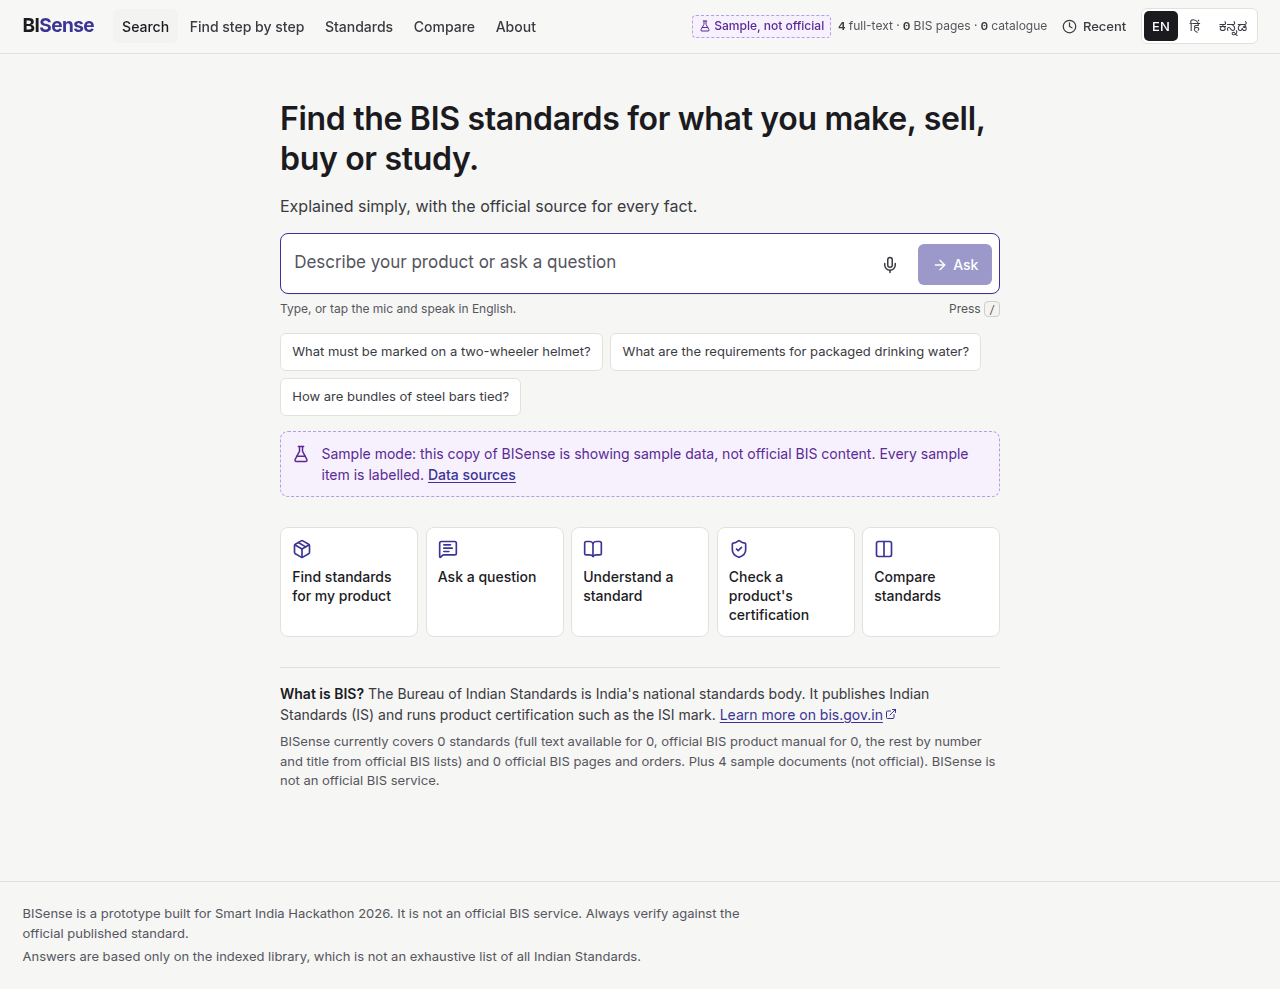
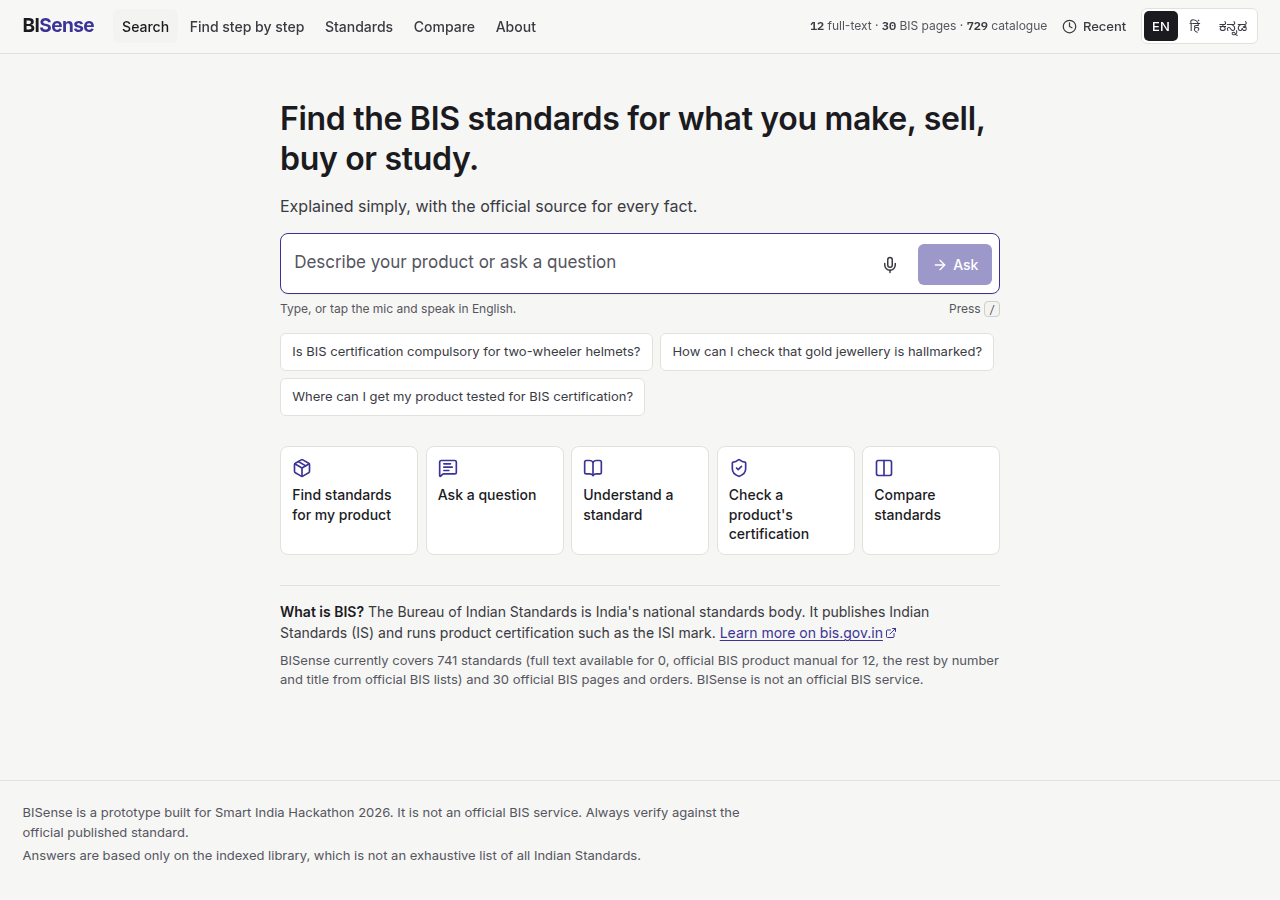
Official data verified end to end: readable no-key answers (list rows first, one about-passage per standard, no boilerplate), clean category names, drop two empty BIS pages; old STT_PROVIDER values mean auto; launcher reruns setup when dependencies change; e2e data-agnostic; eval and screenshots on 
Claude-Session: https://claude.ai/code/session_01GR7TXtNNXnoeu5baGrbs75

diff --git a/web/e2e/app.spec.ts b/web/e2e/app.spec.ts
@@ -84,15 +84,16 @@ test("explorer tabs, requirements CSV and checklist", async ({ page }) => {
 });
 
 test("catalogue-only entry shows official compulsory-certification evidence", async ({ page, request }) => {
-  test.skip((await request.get("/api/standards/is-4151-2015")).status() === 404, "official data not loaded (npm run fetch-public && npm run ingest)");
-  await page.goto("/standards/is-4151-2015");
+  // IS 7466 (rubber gaskets for pressure cookers) is known only from the official compulsory-certification list
+  test.skip((await request.get("/api/standards/is-7466-1994")).status() === 404, "official data not loaded (npm run fetch-public && npm run ingest)");
+  await page.goto("/standards/is-7466-1994");
   await expect(page.getByText("Metadata only. Full text not indexed.").first()).toBeVisible();
   await expect(page.getByText(/Listed as under compulsory BIS certification/)).toBeVisible();
 });
 
 test("library filters and compare with numeric alignment", async ({ page }) => {
   await page.goto("/standards?kind=standard");
-  await expect(page.getByText("4 results")).toBeVisible();
+  await expect(page.getByText(/^\d+ results?$/).first()).toBeVisible();
   await expectNoSeriousA11yIssues(page);
   await page.goto("/compare?a=demo-101-2026&b=demo-102-2026");
   await expect(page.getByRole("heading", { name: "Numeric limits (verbatim)" })).toBeVisible({ timeout: 60_000 });
@@ -113,10 +114,13 @@ test("guided path: goal -> category from the data -> real standards -> open one"
   await page.goto("/");
   await page.getByRole("link", { name: "Find standards for my product" }).click();
   await expect(page.getByRole("heading", { name: "Which product?" })).toBeVisible();
-  await page.getByRole("button", { name: /Automotive and road safety/ }).click();
-  await expect(page.getByText(/Automotive and road safety: 1 in the library/)).toBeVisible();
+  // categories come from whatever data is loaded (official lists, or the sample pack)
+  const first = page.getByRole("group", { name: "Categories in the library" }).getByRole("button").first();
+  const name = ((await first.textContent()) ?? "").replace(/\s*\(\d+\)\s*$/, "").trim();
+  await first.click();
+  await expect(page.getByText(`${name}: `, { exact: false }).first()).toBeVisible();
   await page.getByRole("link", { name: "Open" }).first().click();
-  await expect(page).toHaveURL(/\/standards\/demo-201-2026/);
+  await expect(page).toHaveURL(/\/standards\/[a-z0-9-]+/);
   await expectNoSeriousA11yIssues(page);
 });
 

diff --git a/web/src/routes/Guide.tsx b/web/src/routes/Guide.tsx
@@ -168,7 +168,7 @@ export default function Guide() {
                     type="button"
                     aria-pressed={category === c.category}
                     onClick={() => setCategory(c.category)}
-                    className={`min-h-10 rounded-md border px-3 text-[13px] ${category === c.category ? "border-accent bg-accent-soft text-accent-strong" : "border-line bg-surface text-ink-2 hover:border-accent"}`}
+                    className={`min-h-10 rounded-md border px-3 py-1 text-left text-[13px] ${category === c.category ? "border-accent bg-accent-soft text-accent-strong" : "border-line bg-surface text-ink-2 hover:border-accent"}`}
                   >
                     {c.category} <span className="text-ink-3">({c.count})</span>
                   </button>

diff --git a/server/bisense/answer/extractive.py b/server/bisense/answer/extractive.py
@@ -14,10 +14,32 @@ from bisense.models import Point
 from bisense.retrieval.search import Candidate
 
 
+def _table_rows_text(text: str, max_chars: int) -> str:
+    """Readable rows from a Markdown table: "IS 17790:2022 — Insulated Flask for Domestic Use — … Order, 2023".
+    Header and separator rows are dropped, as is a leading serial-number cell."""
+    rows = []
+    for line in text.splitlines():
+        cells = [c.strip() for c in line.strip().strip("|").split("|") if c.strip()]
+        if "|" not in line or not cells or all(set(c) <= set("-: ") for c in cells) or cells[0].lower().startswith(("sl no", "s. no", "sl. no")):
+            continue
+        if re.fullmatch(r"\d+\.?", cells[0]):
+            cells = cells[1:]
+        if cells:
+            rows.append(" — ".join(" ".join(c.split()) for c in cells))
+    out = "; ".join(rows) or text
+    return out if len(out) <= max_chars else out[:max_chars].rsplit(" ", 1)[0].rstrip(" …") + " …"
+
+
+def _is_table(text: str) -> bool:
+    """Rows are reformatted for reading, so they are not the source's exact wording (no quote)."""
+    return "|---" in text or "| ---" in text
+
+
 def first_sentences(text: str, max_chars: int = 320) -> str:
+    if _is_table(text):
+        return _table_rows_text(text, max_chars)
     text = " ".join(text.split())
-    if text.startswith("|") or "| ---" in text or "|---" in text:
-        # tables: show the caption/first rows instead of a sentence
+    if text.startswith("|"):
         return text[:max_chars]
     parts = re.split(r"(?<=[.;])\s+(?=[A-Z(•])", text)
     out = ""
@@ -33,31 +55,83 @@ RERANK_MARGIN = 5.0
 VECTOR_MARGIN = 0.07
 
 
-def strong_context(context: list[Candidate]) -> list[Candidate]:
+def strong_context(context: list[Candidate], margin: float = RERANK_MARGIN, keep_lists: bool = False) -> list[Candidate]:
     """Drop passages much weaker than the best one, so an extractive answer about helmets does not also
-    list a steel-bar clause that only shares the word "marked". Keeps at least the best passage."""
+    list a steel-bar clause that only shares the word "mark". Keeps at least the best passage.
+    keep_lists: official product-list rows always stay (for "which standard applies" they are the evidence,
+    and the cross-encoder scores table rows low)."""
     if not context:
         return []
     reranked = [c.rerank_score for c in context if c.rerank_score is not None]
     if reranked:
         top = max(reranked)
-        return [c for c in context if c.rerank_score is None or c.rerank_score >= top - RERANK_MARGIN] or context[:1]
+        keep = [c for c in context if c.rerank_score is None or c.rerank_score >= top - margin or (keep_lists and c.clause_kind == "list")]
+        return keep or context[:1]
     vecs = [c.vector_score for c in context if c.vector_score is not None]
     if not vecs:
         return context
     best = max(vecs)
     keep = [
-        c for c in context if (c.vector_score is not None and c.vector_score >= best - VECTOR_MARGIN) or (c.lexical_rank is not None and c.lexical_rank <= 2)
+        c
+        for c in context
+        if (c.vector_score is not None and c.vector_score >= best - VECTOR_MARGIN)
+        or (c.lexical_rank is not None and c.lexical_rank <= 2)
+        or (keep_lists and c.clause_kind == "list")
     ]
     return keep or context[:1]
 
 
-def extractive_points(context: list[Candidate], limit: int = 6) -> list[Point]:
+def _location(c: Candidate) -> str:
+    """ "4.2 Mass", "§3.1", or just the heading for front matter (never "Front Front matter")."""
+    if c.clause_number.startswith("Front"):
+        return c.clause_heading if c.clause_heading and c.clause_heading != "Front matter" else ""
+    return f"{c.clause_number} {c.clause_heading}".strip()
+
+
+DISCOVER_MARGIN = 3.0
+
+
+# Preference when showing one passage per standard: what the standard is about first; marking,
+# packing, sampling and annex text (often boilerplate shared by every product manual) last.
+_ABOUT_RANK = {"scope": 0, "front": 1, "foreword": 2, "terminology": 3, "requirement": 4, "test_method": 5, "table": 6}
+_LAST = {"marking", "packing", "sampling", "annex"}
+
+
+def _words(text: str) -> set[str]:
+    from bisense.retrieval.query import STOPWORDS
+
+    return {w[:4] for w in re.findall(r"[a-z0-9]+", text.lower()) if len(w) > 2 and w not in STOPWORDS}
+
+
+def one_per_standard(context: list[Candidate], limit: int = 6, query: str = "") -> list[Candidate]:
+    """For "which standards apply" questions: official list rows first (up to 3), then one retrieved
+    passage per standard, preferring its scope/title passage over a marking clause that happened to match.
+    Only retrieved passages are used, so every point keeps a citation in the evidence panel."""
+    rows = [c for c in context if c.clause_kind == "list"][:3]
+    by_std: dict[int, list[Candidate]] = {}
+    for c in context:
+        if c.clause_kind != "list":
+            by_std.setdefault(c.standard_id, []).append(c)
+    out = [min(cands, key=lambda c: (c.clause_kind in _LAST, _ABOUT_RANK.get(c.clause_kind, 7))) for cands in by_std.values()]
+    # A standard whose title shares no word with the question only matched boilerplate (e.g. the lab
+    # annex every product manual repeats): leave it out.
+    q = _words(query)
+    if q:
+        out = [c for c in out if q & _words(f"{c.title} {c.document_title or ''}")] or out[:1]
+    return (rows + out)[:limit]
+
+
+def extractive_points(context: list[Candidate], limit: int = 6, discover: bool = False, query: str = "") -> list[Point]:
     points: list[Point] = []
-    for c in strong_context(context)[:limit]:
+    if discover:
+        chosen = one_per_standard(strong_context(context, DISCOVER_MARGIN, keep_lists=True), query=query)
+    else:
+        chosen = strong_context(context)[:limit]
+    for c in chosen:
         excerpt = first_sentences(c.text)
         if not excerpt:
             continue
-        label = f"{c.label()} — {c.clause_number} {c.clause_heading}".strip()
-        points.append(Point(kind="source_fact", text=f"{label}: {excerpt}", citations=[c.citation_id or ""], quote=excerpt))
+        loc = _location(c)
+        label = f"{c.label()} — {loc}" if loc else c.label()
+        points.append(Point(kind="source_fact", text=f"{label}: {excerpt}", citations=[c.citation_id or ""], quote=None if _is_table(c.text) else excerpt))
     return points

diff --git a/server/bisense/ingest/catalogue.py b/server/bisense/ingest/catalogue.py
@@ -30,6 +30,19 @@ from bisense.ingest.types import ClauseDraft, ParsedDoc
 PARSER_VERSION = "catalogue-1.1"
 
 
+def short_category(text: str, limit: int = 80) -> str:
+    """A readable category name from a list heading. Some headings on the official page are a whole
+    history of Quality Control Orders in one cell; keep the first line, before "(Quality Control) Order",
+    without a leading "1. List of", cut at a word boundary."""
+    first = next((line.strip() for line in text.splitlines() if line.strip()), "")
+    first = re.sub(r"^\d+\.\s*", "", first)
+    first = re.sub(r"^List of\s+", "", first, flags=re.I)
+    first = re.split(r"\s*\(Quality Control\)", first, maxsplit=1)[0].strip()
+    if len(first) > limit:
+        first = first[:limit].rsplit(" ", 1)[0].rstrip(",;:-") + "…"
+    return first
+
+
 def _cell_text(td: Tag) -> str:
     for br in td.find_all("br"):
         br.replace_with(" ")
@@ -105,7 +118,7 @@ def parse_catalogue_document(path: Path) -> ParsedDoc:
         prev = table.find_previous(["h1", "h2", "h3", "h4", "p", "strong"])
         table_heading = normalize_text(prev.get_text(" ")) if prev else ""
 
-        category = table_heading if c_title is not None else ""
+        category = short_category(table_heading) if c_title is not None else ""
         group_rows: list[list[str]] = []
         pending_meta: list[dict] = []
         for row in grid[1:]:
@@ -114,7 +127,7 @@ def parse_catalogue_document(path: Path) -> ParsedDoc:
             if len(distinct) == 1 and not stdnum.parse(next(iter(distinct))):
                 _flush(clauses, group_rows, pending_meta, rows_out, category, table_heading, section_counter := [section_n])
                 section_n = section_counter[0]
-                category = next(iter(distinct))
+                category = short_category(next(iter(distinct)))
                 continue
             row = [" ".join(c.split()) for c in row]
             is_raw = row[c_is] if c_is < len(row) else ""
@@ -144,7 +157,7 @@ def parse_catalogue_document(path: Path) -> ParsedDoc:
                         "title": std_title or product,
                         "order": order,
                         "status": status,
-                        "category": category or table_heading,
+                        "category": category or short_category(table_heading),
                     }
                 )
         _flush(clauses, group_rows, pending_meta, rows_out, category, table_heading, section_counter := [section_n])

diff --git a/server/bisense/answer/ask.py b/server/bisense/answer/ask.py
@@ -23,7 +23,7 @@ from pydantic import BaseModel
 
 from bisense.answer import cache
 from bisense.answer.confidence import evidence_strength
-from bisense.answer.extractive import extractive_points, strong_context
+from bisense.answer.extractive import extractive_points
 from bisense.answer.generate import build_messages, correction_message, generate, rewrite_query
 from bisense.answer.llm_client import LLMUnavailable, get_llm, get_translation_llm
 from bisense.answer.present import (
@@ -447,8 +447,9 @@ def _merge_standards(conn, validated: list[dict], retrieved: list[StandardRef]) 
 
 
 def _extractive(plan: QueryPlan, res: SearchResult, std_refs: list[StandardRef], llm_configured: bool) -> Answer:
-    points = extractive_points(res.context)
-    shown = {c.slug for c in strong_context(res.context)}
+    discover = plan.intent in ("discover", "applicability")
+    points = extractive_points(res.context, discover=discover, query=plan.english_query)
+    shown = {c.slug for p in points for c in res.context if c.citation_id in p.citations}
     return Answer(
         answer_type="answer",
         summary="",

diff --git a/server/bisense/config.py b/server/bisense/config.py
@@ -12,6 +12,7 @@ from __future__ import annotations
 from functools import lru_cache
 from pathlib import Path
 
+from pydantic import field_validator
 from pydantic_settings import BaseSettings, SettingsConfigDict
 
 # server/bisense/config.py -> repository root is two levels above the package directory.
@@ -90,6 +91,15 @@ class Settings(BaseSettings):
     stt_local_model: str = "small"
     stt_local_languages: str = "en,hi"
     tts_provider: str = "auto"  # auto | openai_compatible | none
+
+    @field_validator("stt_provider", "tts_provider", mode="before")
+    @classmethod
+    def _voice_provider(cls, v: object) -> str:
+        """Older .env files (made from an earlier .env.example) say "browser" or "groq"; treat any value
+        that is not a known provider as "auto", so upgrading never silently switches voice off."""
+        value = str(v or "").strip().lower()
+        return value if value in ("auto", "openai_compatible", "local", "none") else "auto"
+
     tts_base_url: str = "https://api.groq.com/openai/v1"
     tts_api_key: str = ""
     tts_model: str = "canopylabs/orpheus-v1-english"

diff --git a/server/tests/test_ingest.py b/server/tests/test_ingest.py
@@ -144,3 +144,13 @@ def test_corrupt_and_non_pdf_files_fail_clearly(tmp_path):
     broken.write_bytes(b"%PDF-1.7\n garbage garbage")
     with pytest.raises(IngestError):
         extract_pdf(broken)
+
+
+def test_short_category_names_from_official_list_headings():
+    from bisense.ingest.catalogue import short_category
+
+    qco_history = "Footwear made from all-Rubber and all Polymeric material and its components (Quality Control) Order, 2020 \n (S.O. No. 3858 (E) 27/10/2020) \n more orders ..."
+    assert short_category(qco_history) == "Footwear made from all-Rubber and all Polymeric material and its components"
+    assert short_category("Steel and Iron Products") == "Steel and Iron Products"
+    long = short_category("1. List of Electronics and IT Goods under the Compulsory Registration Scheme for Self Declaration of conformity notified by MeitY")
+    assert long.startswith("Electronics and IT Goods") and len(long) <= 81 and long.endswith("…")

diff --git a/server/tests/test_answer.py b/server/tests/test_answer.py
@@ -143,3 +143,12 @@ def test_compare_rejects_cells_citing_another_aspect(built_index):
     finally:
         conn.close()
         set_llm(None, override=False)
+
+
+def test_list_rows_read_as_rows_not_table_markup():
+    from bisense.answer.extractive import first_sentences
+
+    table = "Domestic Pressure Cooker\n| Sl No. | IS No. | Product | Notification / status |\n|---|---|---|---|\n| 260. | IS 2347:2017 | Domestic Pressure Cooker | 48. Domestic Pressure Cooker (Quality Control) Order, 2020 |"
+    out = first_sentences(table)
+    assert out == "IS 2347:2017 — Domestic Pressure Cooker — 48. Domestic Pressure Cooker (Quality Control) Order, 2020"
+    assert "---" not in out and "Sl No" not in out

diff --git a/server/tests/test_config.py b/server/tests/test_config.py
@@ -12,3 +12,12 @@ def test_env_example_names_match_settings():
     documented = set(re.findall(r"^([A-Z][A-Z0-9_]*)=", (REPO / ".env.example").read_text(encoding="utf-8"), re.M))
     fields = {name.upper() for name in Settings.model_fields}
     assert documented - fields == set(), f"unknown variables in .env.example: {sorted(documented - fields)}"
+
+
+def test_old_voice_provider_values_mean_auto(monkeypatch):
+    monkeypatch.setenv("STT_PROVIDER", "browser")
+    monkeypatch.setenv("TTS_PROVIDER", "Browser")
+    s = Settings()
+    assert s.stt_provider == "auto" and s.tts_provider == "auto"
+    monkeypatch.setenv("STT_PROVIDER", "none")
+    assert Settings().stt_provider == "none"

diff --git a/docs/VERIFICATION.md b/docs/VERIFICATION.md
@@ -16,7 +16,26 @@ observed; compiling is not enough.
 - Earlier evidence from the first repair pass (same day, with network and a Groq key) is listed separately
   and marked **"previous pass"**. It was not re-run here.
 
-## Quality gates (this pass)
+## Pass 3 (2026-09-28, network available, no Groq key)
+
+- Official data downloaded (44 files, one dropped connection recovered by retry); index: 42 official documents,
+  12 product manuals, 924 official product rows, 729 metadata-only standards; real embedding and reranker models.
+- `pytest`: 166 passed, 7 skipped (Groq-only tests). Includes `test_rag_proof.py` on the official data
+  (known-answer, ablation, refusal, injection, provenance) — run for the first time since pass 1.
+- `vitest`: 15 passed. Playwright: **26 passed, 0 skipped** with `E2E_STT_PROVIDER=local` (real microphone
+  flow via local Whisper, official catalogue entry, guided path on official categories).
+- `bisense eval --no-llm` on 63 questions (official + sample index): recall@5 **1.00**, MRR@10 0.89,
+  exact-number hit@1 1.00, refusal accuracy 0.83, false refusals 0.02 (same as before the ranking changes).
+  Journey J1 "plastic food containers": expected manual at rank 2; the answer lists IS 17569 (compulsory),
+  IS 10910, IS 6312, IS 15410 and the official list row for insulated food containers.
+- Found and fixed while verifying: two allow-listed BIS pages are now empty landing pages (removed); one
+  official category name was a whole paragraph of order history (cleaned); list rows printed raw table
+  markup in no-key answers (now readable rows, and not labelled as exact wording); no-key "which standard"
+  answers showed marking/annex boilerplate (now one about-passage per standard, list rows first);
+  an `.env` from the old example (`STT_PROVIDER=browser`) kept the new mic off (old values now mean `auto`);
+  the launcher would not install the new speech parts for existing users (setup-version check).
+
+## Quality gates (pass 2)
 
 | Command | Result |
 |---|---|

diff --git a/docs/DECISIONS.md b/docs/DECISIONS.md
@@ -43,3 +43,4 @@ One line per decision: what and why. Newest at the bottom.
 - 2026-09-28 (pass 3) — Official-data fetcher: retries each file (5/15/30 s) on network errors, 429 and 5xx, skips a file that still fails, saves progress after every file, and writes `data/public/COMPLETE` only when every listed file is present (exit code 3 otherwise). Why: bis.gov.in dropped connections mid-file; the old fetcher stopped at the first error but still wrote its log, so the launcher built an index from 2 files.
 - 2026-09-28 (pass 3) — Not built: live querying of the BIS "Know your standards" portal. Its search is an internal AJAX endpoint that returned nothing without a browser session and CSRF token; driving it would mean emulating a session against a portal we don't have terms for. The allow-listed official files are downloaded once instead (~3 minutes).
 - 2026-09-28 — `npm run check` applies the eval recall threshold only when official data is indexed. Why: the question set expects official documents; on a fresh clone the gate failed for a reason unrelated to code.
+- 2026-09-28 (pass 3) — Removed two allow-listed pages (`/scheme-x-certification/`, `/product-certification/compulsory-registration/`): bis.gov.in now serves them as empty landing pages (22 and 76 characters of body text), so ingestion rejected them. Their content lives on sub-pages; the Scheme-X FAQ (kept) covers the scheme. The Scheme-X product list (`/products-under-compulsory-certification-scheme-x/`) uses a different page layout and is a future addition.

diff --git a/docs/PROGRESS.md b/docs/PROGRESS.md
@@ -28,12 +28,16 @@ Remaining items need the team (official data fetch, keys, real devices, native s
     official data; DATA.md rewritten for tiers A–D.
   - Docs: VERIFICATION (new), README, DATA, DEMO_SCRIPT, DECISIONS, REALITY_AUDIT, JUDGE_REVIEW; screenshots.
 
+- Repair pass 3 (2026-09-28, network available): mic without a key (local Whisper, en/hi); resilient
+  official-data download; official index built and evaluated (recall@5 1.00); RAG proofs on official data
+  pass; e2e 26/26; readable no-key answers; category names; launcher upgrades existing installs.
+
 ## In progress
 - (none)
 
 ## Next (team — cannot be done from a network-blocked environment)
-1. `npm run fetch-public` → `npm run ingest` → `npm run test` (runs `test_rag_proof.py` on official data)
-   → `npm run eval` (updates docs/EVAL.md; confirm J1 "plastic food containers" and the ranking change).
+1. Done in pass 3 (official data, proofs, eval without LLM). Remaining: `npm run eval` WITH a Groq key to
+   refresh docs/EVAL.md answer metrics.
 2. Add a Groq key to `.env`, run `npm run test` and `npm run e2e` again (live STT/TTS/LLM tests), then
    `npm run warm`.
 3. Manual checks in docs/VERIFICATION.md (microphone on desktop Chrome and a phone over HTTPS, read-aloud,
